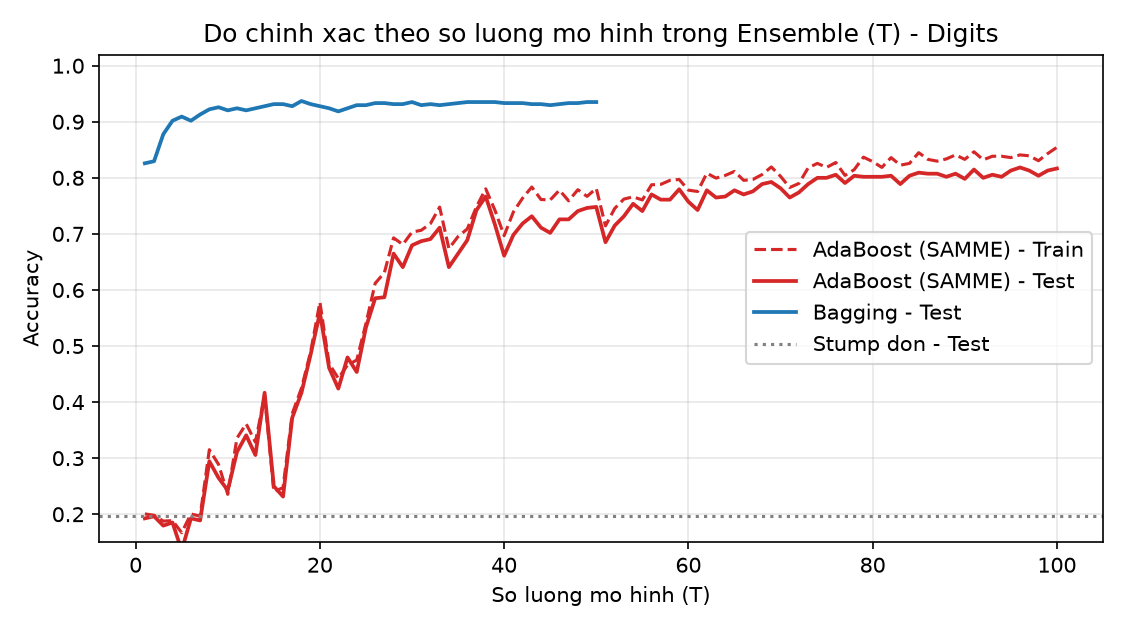
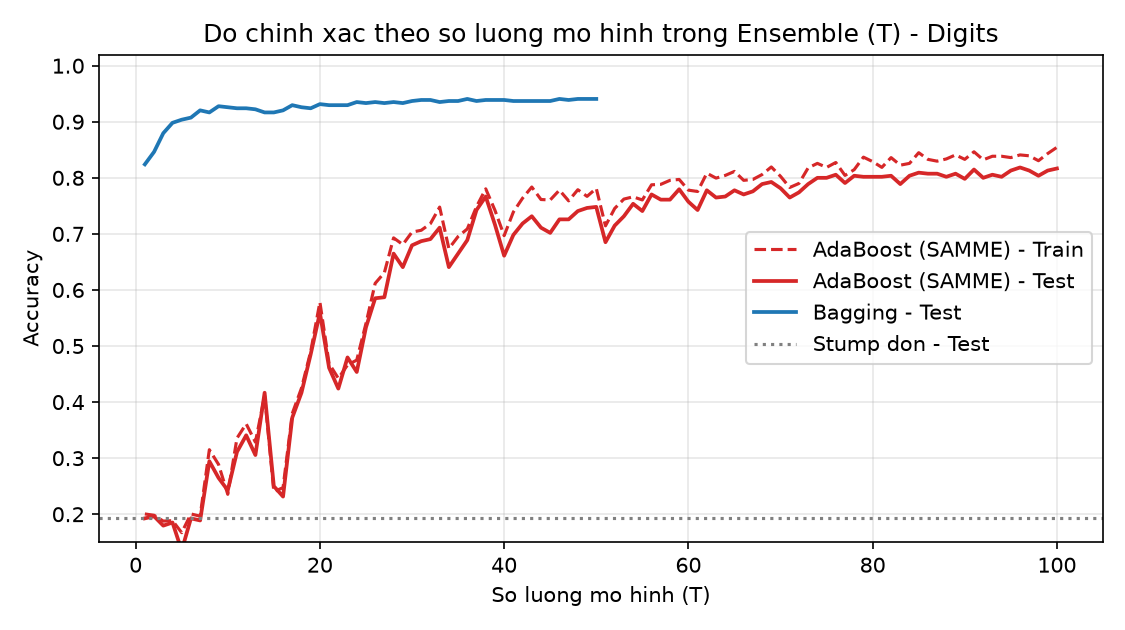
feat: support --method all in train.py for unified ensemble comparison

diff --git a/train.py b/train.py
@@ -1,12 +1,12 @@
 """
 Script huan luyen va danh gia Ensemble Learning tren Scikit-Learn Digits.
 Ho tro dung 6 tham so dong lenh (argparse):
-  --method:        bagging | boosting | stacking (Bat buoc)
+  --method:        bagging | boosting | stacking | all (Bat buoc, 'all' de so sanh toan bo)
   --base_model:    dt | knn | svm | lr (Stacking ho tro nhieu model cach nhau boi dau phay)
   --seed:          int >= 0
   --test_size:     0.0 < float < 1.0
-  --n_estimators:  int >= 1 (chi ap dung cho bagging, boosting)
-  --learning_rate: float > 0 (chi ap dung cho boosting)
+  --n_estimators:  int >= 1 (ap dung cho bagging, boosting, all)
+  --learning_rate: float > 0 (ap dung cho boosting, all)
 """
 import sys
 import time
@@ -26,8 +26,8 @@ from sklearn.metrics import accuracy_score, confusion_matrix
 from sklearn.ensemble import BaggingClassifier, AdaBoostClassifier, StackingClassifier
 
 from src.methods import Bagging, AdaBoost, Stacking
-from src.data import load_data, build_model, SUPPORTED_MODELS
-from src.utils import log, print_table
+from src.data import load_data, build_model, get_base_models, SUPPORTED_MODELS
+from src.utils import log, print_table, save_visualizations
 
 
 def parse_args():
@@ -42,8 +42,8 @@ def parse_args():
         "--method",
         type=str,
         required=True,
-        choices=["bagging", "boosting", "stacking"],
-        help="Phuong phap Ensemble: bagging | boosting | stacking",
+        choices=["bagging", "boosting", "stacking", "all"],
+        help="Phuong phap Ensemble: bagging | boosting | stacking | all (chay toan bo de so sanh)",
     )
 
     # 2. --base_model
@@ -75,7 +75,7 @@ def parse_args():
         "--n_estimators",
         type=int,
         default=None,
-        help="So luong estimators (int >= 1, ap dung cho bagging va boosting)",
+        help="So luong estimators (int >= 1, ap dung cho bagging, boosting, all)",
     )
 
     # 6. --learning_rate
@@ -83,7 +83,7 @@ def parse_args():
         "--learning_rate",
         type=float,
         default=None,
-        help="Toc do hoc learning_rate (float > 0, chi ap dung cho boosting)",
+        help="Toc do hoc learning_rate (float > 0, chi ap dung cho boosting, all)",
     )
 
     args = parser.parse_args()
@@ -104,7 +104,11 @@ def parse_args():
     # --- RANG BUOC THEO TUNG METHOD ---
     method = args.method.lower()
 
-    if method == "stacking":
+    if method == "all":
+        # Khong rang buoc rieng vi 'all' se chay toan bo cac phuong phap
+        pass
+
+    elif method == "stacking":
         # Argument khong hop le cho Stacking
         if args.n_estimators is not None:
             parser.error("Tham so --n_estimators khong ap dung cho phuong phap 'stacking'.")
@@ -162,8 +166,170 @@ def parse_args():
     return args
 
 
-def train_and_evaluate(args):
-    """Huan luyen mo hinh tu cai dat va doi chieu voi Scikit-Learn."""
+def run_all(args):
+    """Chay toan bo cac mo hinh co so va cac phuong phap Ensemble de so sanh tren cung tap test."""
+    total_start = time.perf_counter()
+    bag_t = args.n_estimators if args.n_estimators is not None else 50
+    ada_t = args.n_estimators if args.n_estimators is not None else 100
+    ada_lr = args.learning_rate if args.learning_rate is not None else 1.0
+
+    print("\n" + "=" * 80)
+    print(" ENSEMBLE LEARNING BENCHMARK PIPELINE: SO SANH TOAN BO CAC PHUONG PHAP")
+    print("=" * 80)
+    log("CONFIG", "Cau hinh tham so thuc nghiem:")
+    print(f"       • Method              : all (So sanh Bagging, Boosting, Stacking)")
+    print(f"       • Random Seed         : {args.seed}")
+    print(f"       • Test Size           : {args.test_size} ({int(args.test_size*100)}%)")
+    print(f"       • Bagging Estimators  : {bag_t} cay (dt)")
+    print(f"       • AdaBoost Estimators : {ada_t} stump (learning_rate={ada_lr})")
+    print(f"       • Stacking Setup      : Base models (DT, KNN, SVM) -> LR Meta-model (cv=5)")
+    print("=" * 80)
+
+    # 1. Tai va chia du lieu
+    log("DATA", f"Tai tap du lieu Scikit-Learn Digits (Stratified Split: {int((1-args.test_size)*100)}% Train / {int(args.test_size*100)}% Test)...")
+    Xtr, ytr, Xte, yte, _ = load_data(test_size=args.test_size, seed=args.seed)
+    classes = np.unique(ytr)
+    n_classes = len(classes)
+    log("DATA", f"Tong mau: {len(ytr)+len(yte)} | Train: {len(ytr)} | Test: {len(yte)} | So dac trung: {Xtr.shape[1]} | So lop: {n_classes}")
+
+    # 2. Khoi tao va huan luyen cac mo hinh co so
+    log("TRAIN", "Bat dau huan luyen cac mo hinh co so & phuong phap Ensemble...")
+    models = get_base_models(seed=args.seed)
+    fit_times = {}
+
+    for idx, (name, model) in enumerate(list(models.items()), 1):
+        t0 = time.perf_counter()
+        model.fit(Xtr, ytr)
+        fit_times[name] = time.perf_counter() - t0
+        log("TRAIN", f"[{idx}/7] Da huan luyen {name:<28s} trong {fit_times[name]:.4f}s")
+
+    # 3. Khoi tao va huan luyen Bagging, AdaBoost, Stacking
+    t0 = time.perf_counter()
+    bag = Bagging(
+        base_estimator=build_model("dt", mode="bagging", seed=args.seed),
+        T=bag_t,
+        seed=args.seed,
+    ).fit(Xtr, ytr)
+    bag_name = f"Bagging ({bag_t} cay)"
+    fit_times[bag_name] = time.perf_counter() - t0
+    models[bag_name] = bag
+    log("TRAIN", f"[5/7] Da huan luyen {bag_name:<28s} trong {fit_times[bag_name]:.4f}s")
+
+    t0 = time.perf_counter()
+    ada = AdaBoost(
+        base_estimator=build_model("dt", mode="boosting", seed=args.seed),
+        T=ada_t,
+        learning_rate=ada_lr,
+        random_state=args.seed,
+    ).fit(Xtr, ytr)
+    ada_name = f"AdaBoost ({ada_t} stump)"
+    fit_times[ada_name] = time.perf_counter() - t0
+    models[ada_name] = ada
+    log("TRAIN", f"[6/7] Da huan luyen {ada_name:<28s} trong {fit_times[ada_name]:.4f}s")
+
+    t0 = time.perf_counter()
+    stacking_bases = [
+        build_model("dt", mode="stacking", seed=args.seed),
+        build_model("knn", seed=args.seed),
+        build_model("svm", seed=args.seed),
+    ]
+    meta_est = build_model("lr", seed=args.seed)
+    stk = Stacking(base_estimators=stacking_bases, meta_estimator=meta_est, k=5, seed=args.seed).fit(Xtr, ytr)
+    stk_name = "Stacking (DT+KNN+SVM -> LR)"
+    fit_times[stk_name] = time.perf_counter() - t0
+    models[stk_name] = stk
+    log("TRAIN", f"[7/7] Da huan luyen {stk_name:<28s} trong {fit_times[stk_name]:.4f}s")
+
+    # 4. Danh gia toan bo
+    log("EVAL", "Bang tong hop ket qua danh gia do chinh xac (Accuracy) & thoi gian fit:")
+    eval_rows = []
+    res = {}
+    for name, model in models.items():
+        tr_acc = accuracy_score(ytr, model.predict(Xtr))
+        te_acc = accuracy_score(yte, model.predict(Xte))
+        res[name] = (tr_acc, te_acc)
+        eval_rows.append([name, f"{tr_acc:.4f}", f"{te_acc:.4f}", f"{fit_times.get(name, 0):.4f}s"])
+
+    print_table(
+        headers=["Mo hinh", "Train Acc", "Test Acc", "Fit Time"],
+        rows=eval_rows,
+        alignments=["<", ">", ">", ">"],
+    )
+
+    # 5. Doi chieu truc tiep voi Scikit-Learn
+    log("BENCHMARK", "Kiem thu & doi chieu ket qua truc tiep voi Scikit-Learn:")
+    sk_models = {
+        "KNN (k=5)": build_model("knn", seed=args.seed),
+        "Logistic Regression": build_model("lr", seed=args.seed),
+        bag_name: BaggingClassifier(
+            estimator=build_model("dt", mode="bagging", seed=args.seed),
+            n_estimators=bag_t,
+            random_state=args.seed,
+        ),
+        ada_name: AdaBoostClassifier(
+            estimator=build_model("dt", mode="boosting", seed=args.seed),
+            n_estimators=ada_t,
+            learning_rate=ada_lr,
+            random_state=args.seed,
+        ),
+        stk_name: StackingClassifier(
+            estimators=[
+                ("dt", build_model("dt", mode="stacking", seed=args.seed)),
+                ("knn", build_model("knn", seed=args.seed)),
+                ("svm", build_model("svm", seed=args.seed)),
+            ],
+            final_estimator=meta_est,
+            cv=5,
+        ),
+    }
+
+    bench_rows = []
+    for name, sk_model in sk_models.items():
+        sk_acc = accuracy_score(yte, sk_model.fit(Xtr, ytr).predict(Xte))
+        self_acc = res[name][1]
+        diff = abs(self_acc - sk_acc)
+        status = "KHOP 100%" if diff < 1e-5 else ("TUONG DUONG" if diff < 0.01 else "LECH")
+        bench_rows.append([name, f"{self_acc:.4f}", f"{sk_acc:.4f}", f"{diff:+.4f}", status])
+
+    print_table(
+        headers=["Mo hinh", "Tu cai dat", "Scikit-Learn", "Chenh lech", "Trang thai"],
+        rows=bench_rows,
+        alignments=["<", ">", ">", ">", "^"],
+    )
+
+    # 6. Thong ke ma tran nham lan
+    log("EVAL", "Thong ke so luong mau du doan dung tren tap Test (540 mau):")
+    for name, model in models.items():
+        cm = confusion_matrix(yte, model.predict(Xte), labels=classes)
+        correct = int(np.trace(cm))
+        total = int(np.sum(cm))
+        pct = (correct / total) * 100
+        print(f"       • {name:<30s} -> Dung: {correct:3d}/{total} ({pct:.2f}%)")
+
+    # 7. Xuat bieu do truc quan hoa
+    save_visualizations(
+        res=res,
+        ytr=ytr,
+        yte=yte,
+        Xtr=Xtr,
+        Xte=Xte,
+        ada=ada,
+        bag=bag,
+        stk=stk,
+        adaboost_t=ada_t,
+        bagging_t=bag_t,
+        stk_name=stk_name,
+        fig_dir="figs",
+    )
+
+    total_time = time.perf_counter() - total_start
+    print("=" * 80)
+    log("DONE", f"Hoan thanh toan bo thuc nghiem so sanh trong {total_time:.2f} giay.")
+    print("=" * 80 + "\n")
+
+
+def train_single_method(args):
+    """Huan luyen 1 phuong phap don le va doi chieu voi Scikit-Learn."""
     total_start = time.perf_counter()
     method = args.method.lower()
 
@@ -279,6 +445,13 @@ def train_and_evaluate(args):
     print("=" * 80 + "\n")
 
 
-if __name__ == "__main__":
+def main():
     args = parse_args()
-    train_and_evaluate(args)
+    if args.method.lower() == "all":
+        run_all(args)
+    else:
+        train_single_method(args)
+
+
+if __name__ == "__main__":
+    main()
